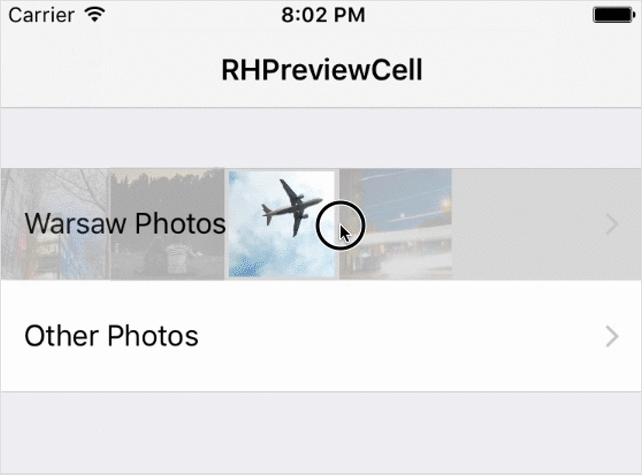
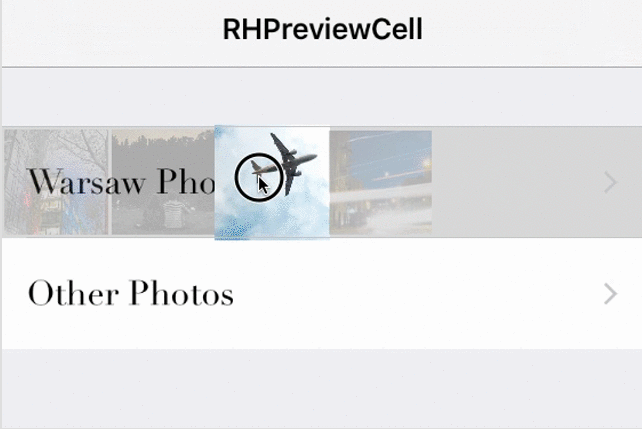
Tiles behaviour layout changed

diff --git a/Example/RHPreviewCellExample/Pods/RHPreviewCell/RHPReviewCell/RHPreviewCellSource/RHPreviewTableViewCellTilesAnimator.swift b/Example/RHPreviewCellExample/Pods/RHPreviewCell/RHPReviewCell/RHPreviewCellSource/RHPreviewTableViewCellTilesAnimator.swift
@@ -43,10 +43,10 @@ class RHPreviewTableViewCellTilesAnimator: RHPreviewTableViewCellTilesAnimationP
         UIView.animateWithDuration(0.5,
                                    delay: 0,
                                    usingSpringWithDamping: 0.4,
-                                   initialSpringVelocity: 0.2,
+                                   initialSpringVelocity: 0.9,
                                    options: UIViewAnimationOptions.CurveEaseInOut,
                                    animations: {
-                                    let scale = CGFloat(0.8)
+                                    let scale = CGFloat(0.89)
                                     tile.transform = CGAffineTransformMakeScale(scale, scale)
             }, completion: nil)
     }

diff --git a/RHPReviewCell/RHPreviewCellSource/RHPreviewTableViewCellTilesAnimator.swift b/RHPReviewCell/RHPreviewCellSource/RHPreviewTableViewCellTilesAnimator.swift
@@ -43,10 +43,10 @@ class RHPreviewTableViewCellTilesAnimator: RHPreviewTableViewCellTilesAnimationP
         UIView.animateWithDuration(0.5,
                                    delay: 0,
                                    usingSpringWithDamping: 0.4,
-                                   initialSpringVelocity: 0.2,
+                                   initialSpringVelocity: 0.9,
                                    options: UIViewAnimationOptions.CurveEaseInOut,
                                    animations: {
-                                    let scale = CGFloat(0.8)
+                                    let scale = CGFloat(0.89)
                                     tile.transform = CGAffineTransformMakeScale(scale, scale)
             }, completion: nil)
     }

diff --git a/Example/RHPreviewCellExample/Pods/RHPreviewCell/RHPReviewCell/RHPreviewCellSource/RHPreviewTilesContainerView.swift b/Example/RHPreviewCellExample/Pods/RHPreviewCell/RHPReviewCell/RHPreviewCellSource/RHPreviewTilesContainerView.swift
@@ -112,9 +112,9 @@ private extension RHPreviewTilesContainerView {
     }
     
     func layoutTiles() {
-        let horizontalSpacing = CGFloat(1)
-        let tileOffset = CGFloat(0)
-        var prevTileMaxX = tileOffset
+        let horizontalSpacing = CGFloat(2)
+        let tileOffset = CGFloat(-4)
+        var prevTileMaxX = horizontalSpacing
         for tile in tiles {
             let tileBorderSize = bounds.height + tileOffset
             let frame = CGRect(x: prevTileMaxX, y: -tileOffset/2, width: tileBorderSize, height: tileBorderSize)

diff --git a/RHPReviewCell/RHPreviewCellSource/RHPreviewTilesContainerView.swift b/RHPReviewCell/RHPreviewCellSource/RHPreviewTilesContainerView.swift
@@ -112,9 +112,9 @@ private extension RHPreviewTilesContainerView {
     }
     
     func layoutTiles() {
-        let horizontalSpacing = CGFloat(1)
-        let tileOffset = CGFloat(0)
-        var prevTileMaxX = tileOffset
+        let horizontalSpacing = CGFloat(2)
+        let tileOffset = CGFloat(-4)
+        var prevTileMaxX = horizontalSpacing
         for tile in tiles {
             let tileBorderSize = bounds.height + tileOffset
             let frame = CGRect(x: prevTileMaxX, y: -tileOffset/2, width: tileBorderSize, height: tileBorderSize)

diff --git a/Example/RHPreviewCellExample/RHPreviewCellExample/AppDelegate.swift b/Example/RHPreviewCellExample/RHPreviewCellExample/AppDelegate.swift
@@ -12,6 +12,7 @@ class AppDelegate: UIResponder, UIApplicationDelegate {
 
         let mainVC = ViewController(withMock: RHMockCellsModel())
         mainVC.title = "RHPreviewCell"
+
         let navigationController = UINavigationController(rootViewController: mainVC)
         window?.rootViewController = navigationController
         window?.makeKeyAndVisible()

diff --git a/Example/RHPreviewCellExample/RHPreviewCellExample/ViewController.swift b/Example/RHPreviewCellExample/RHPreviewCellExample/ViewController.swift
@@ -85,6 +85,7 @@ extension ViewController: UITableViewDataSource {
         cell.delegate = self
         cell.dataSource = self
         cell.textLabel?.text = mockModel.cells[indexPath.row].title
+        cell.textLabel?.font = UIFont(name: "Didot", size: 20)
         
         return cell
     }
